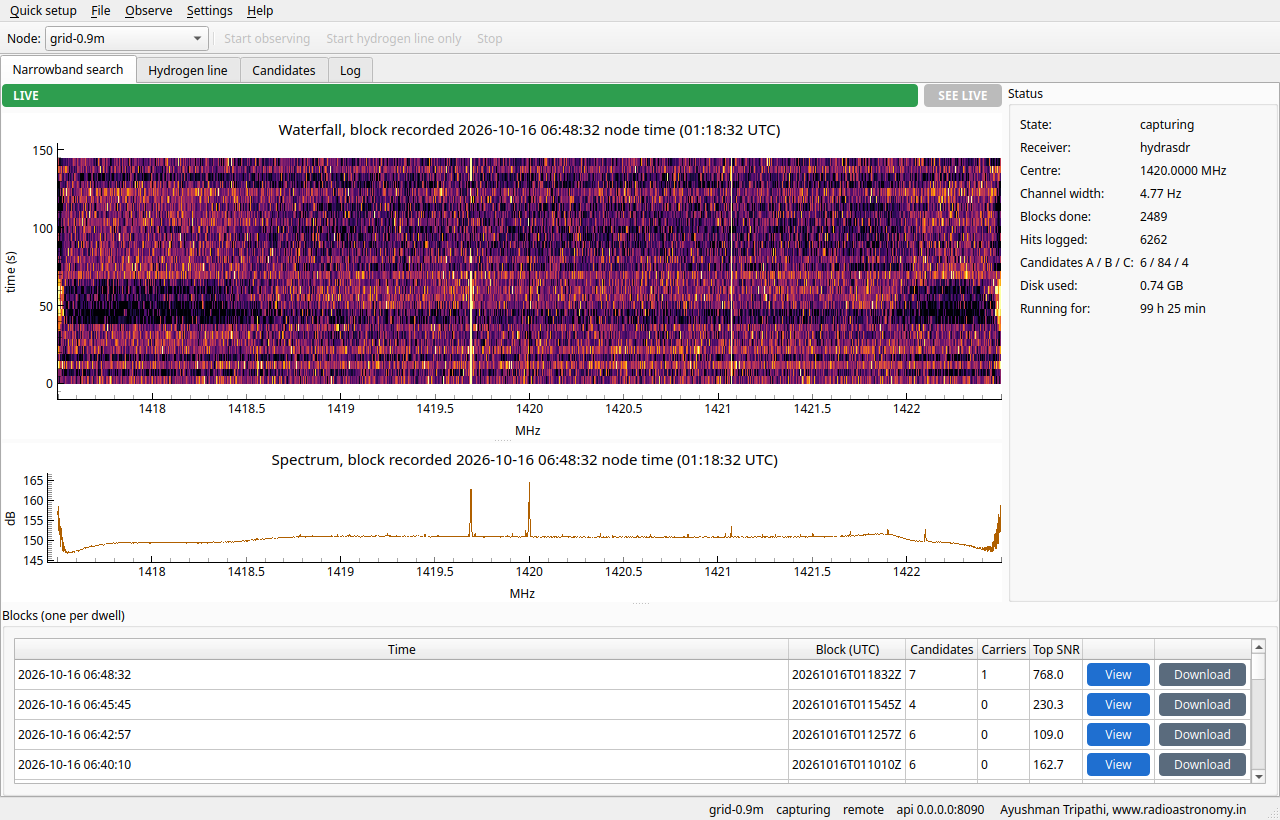
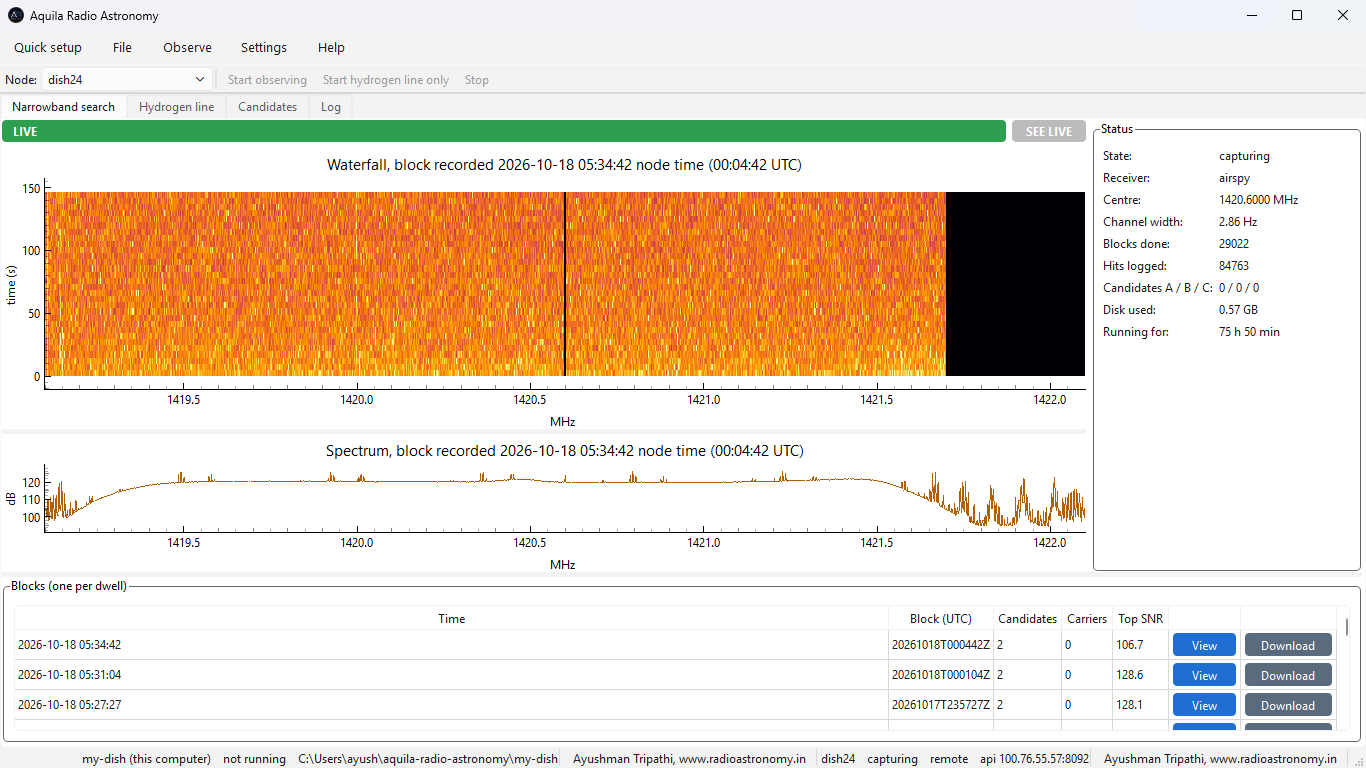
Version 0.2.7

diff --git a/aquila/__init__.py b/aquila/__init__.py
@@ -1,3 +1,3 @@
 """Aquila Radio Astronomy: narrowband SETI survey and hydrogen line with a dish and an SDR.
 Ayushman Tripathi, www.radioastronomy.in. GPL-3.0-or-later."""
-__version__ = "0.2.6"
+__version__ = "0.2.7"
